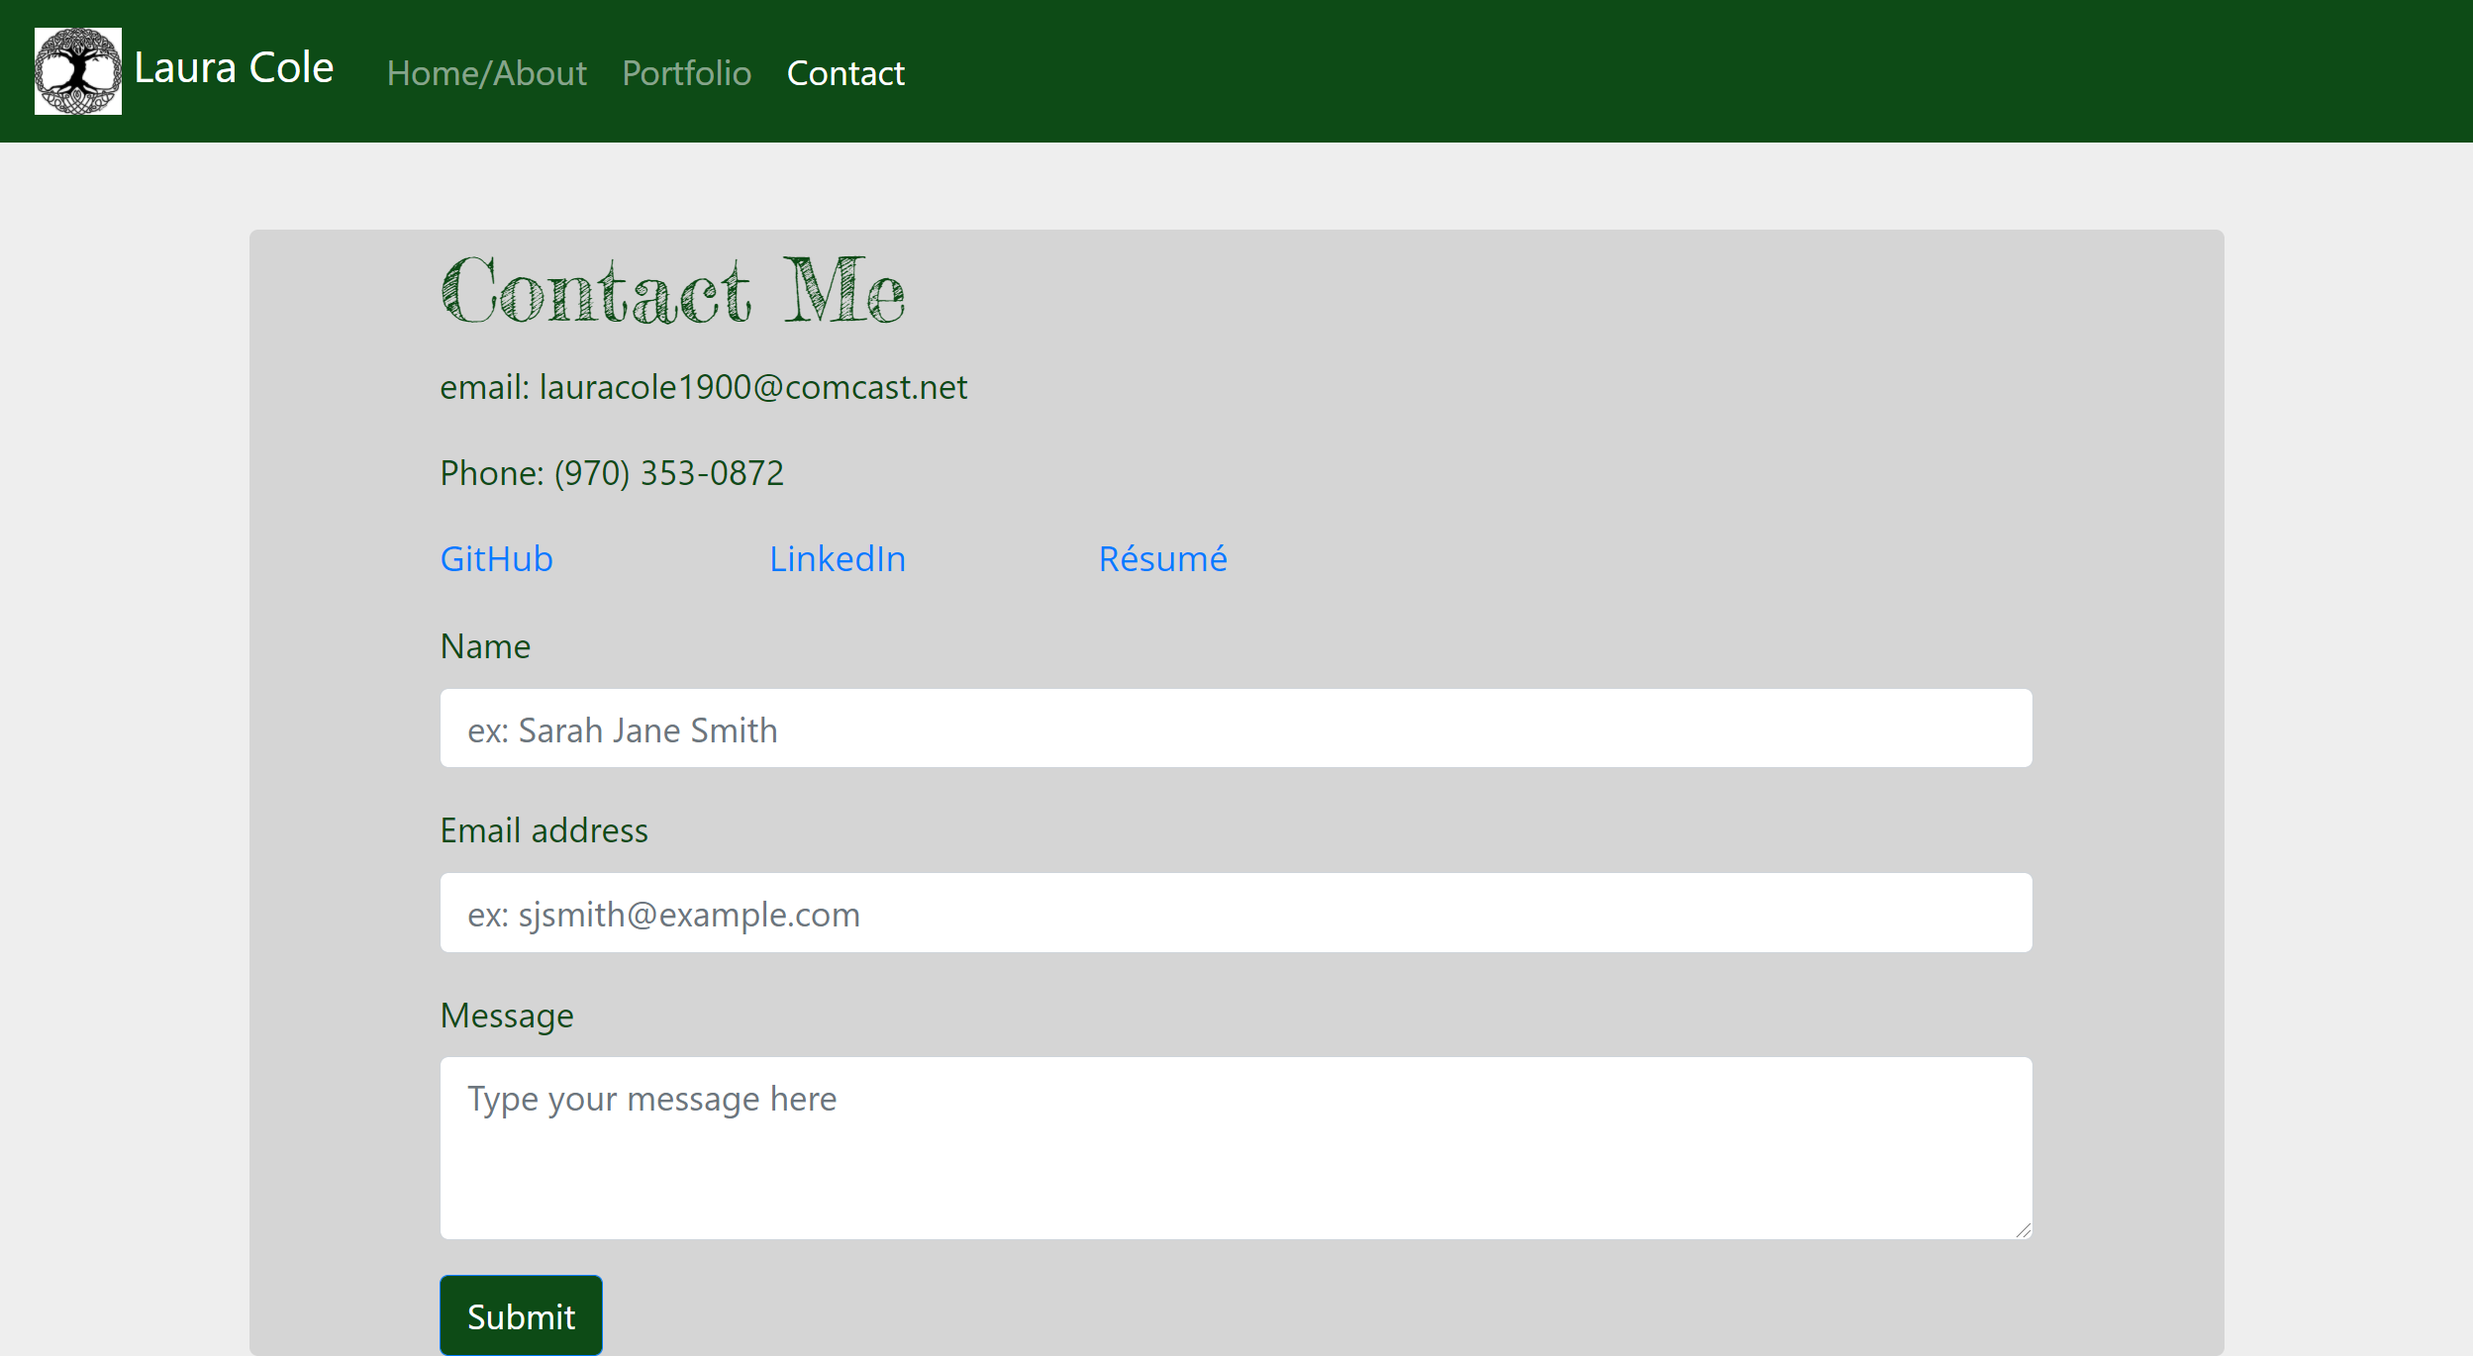
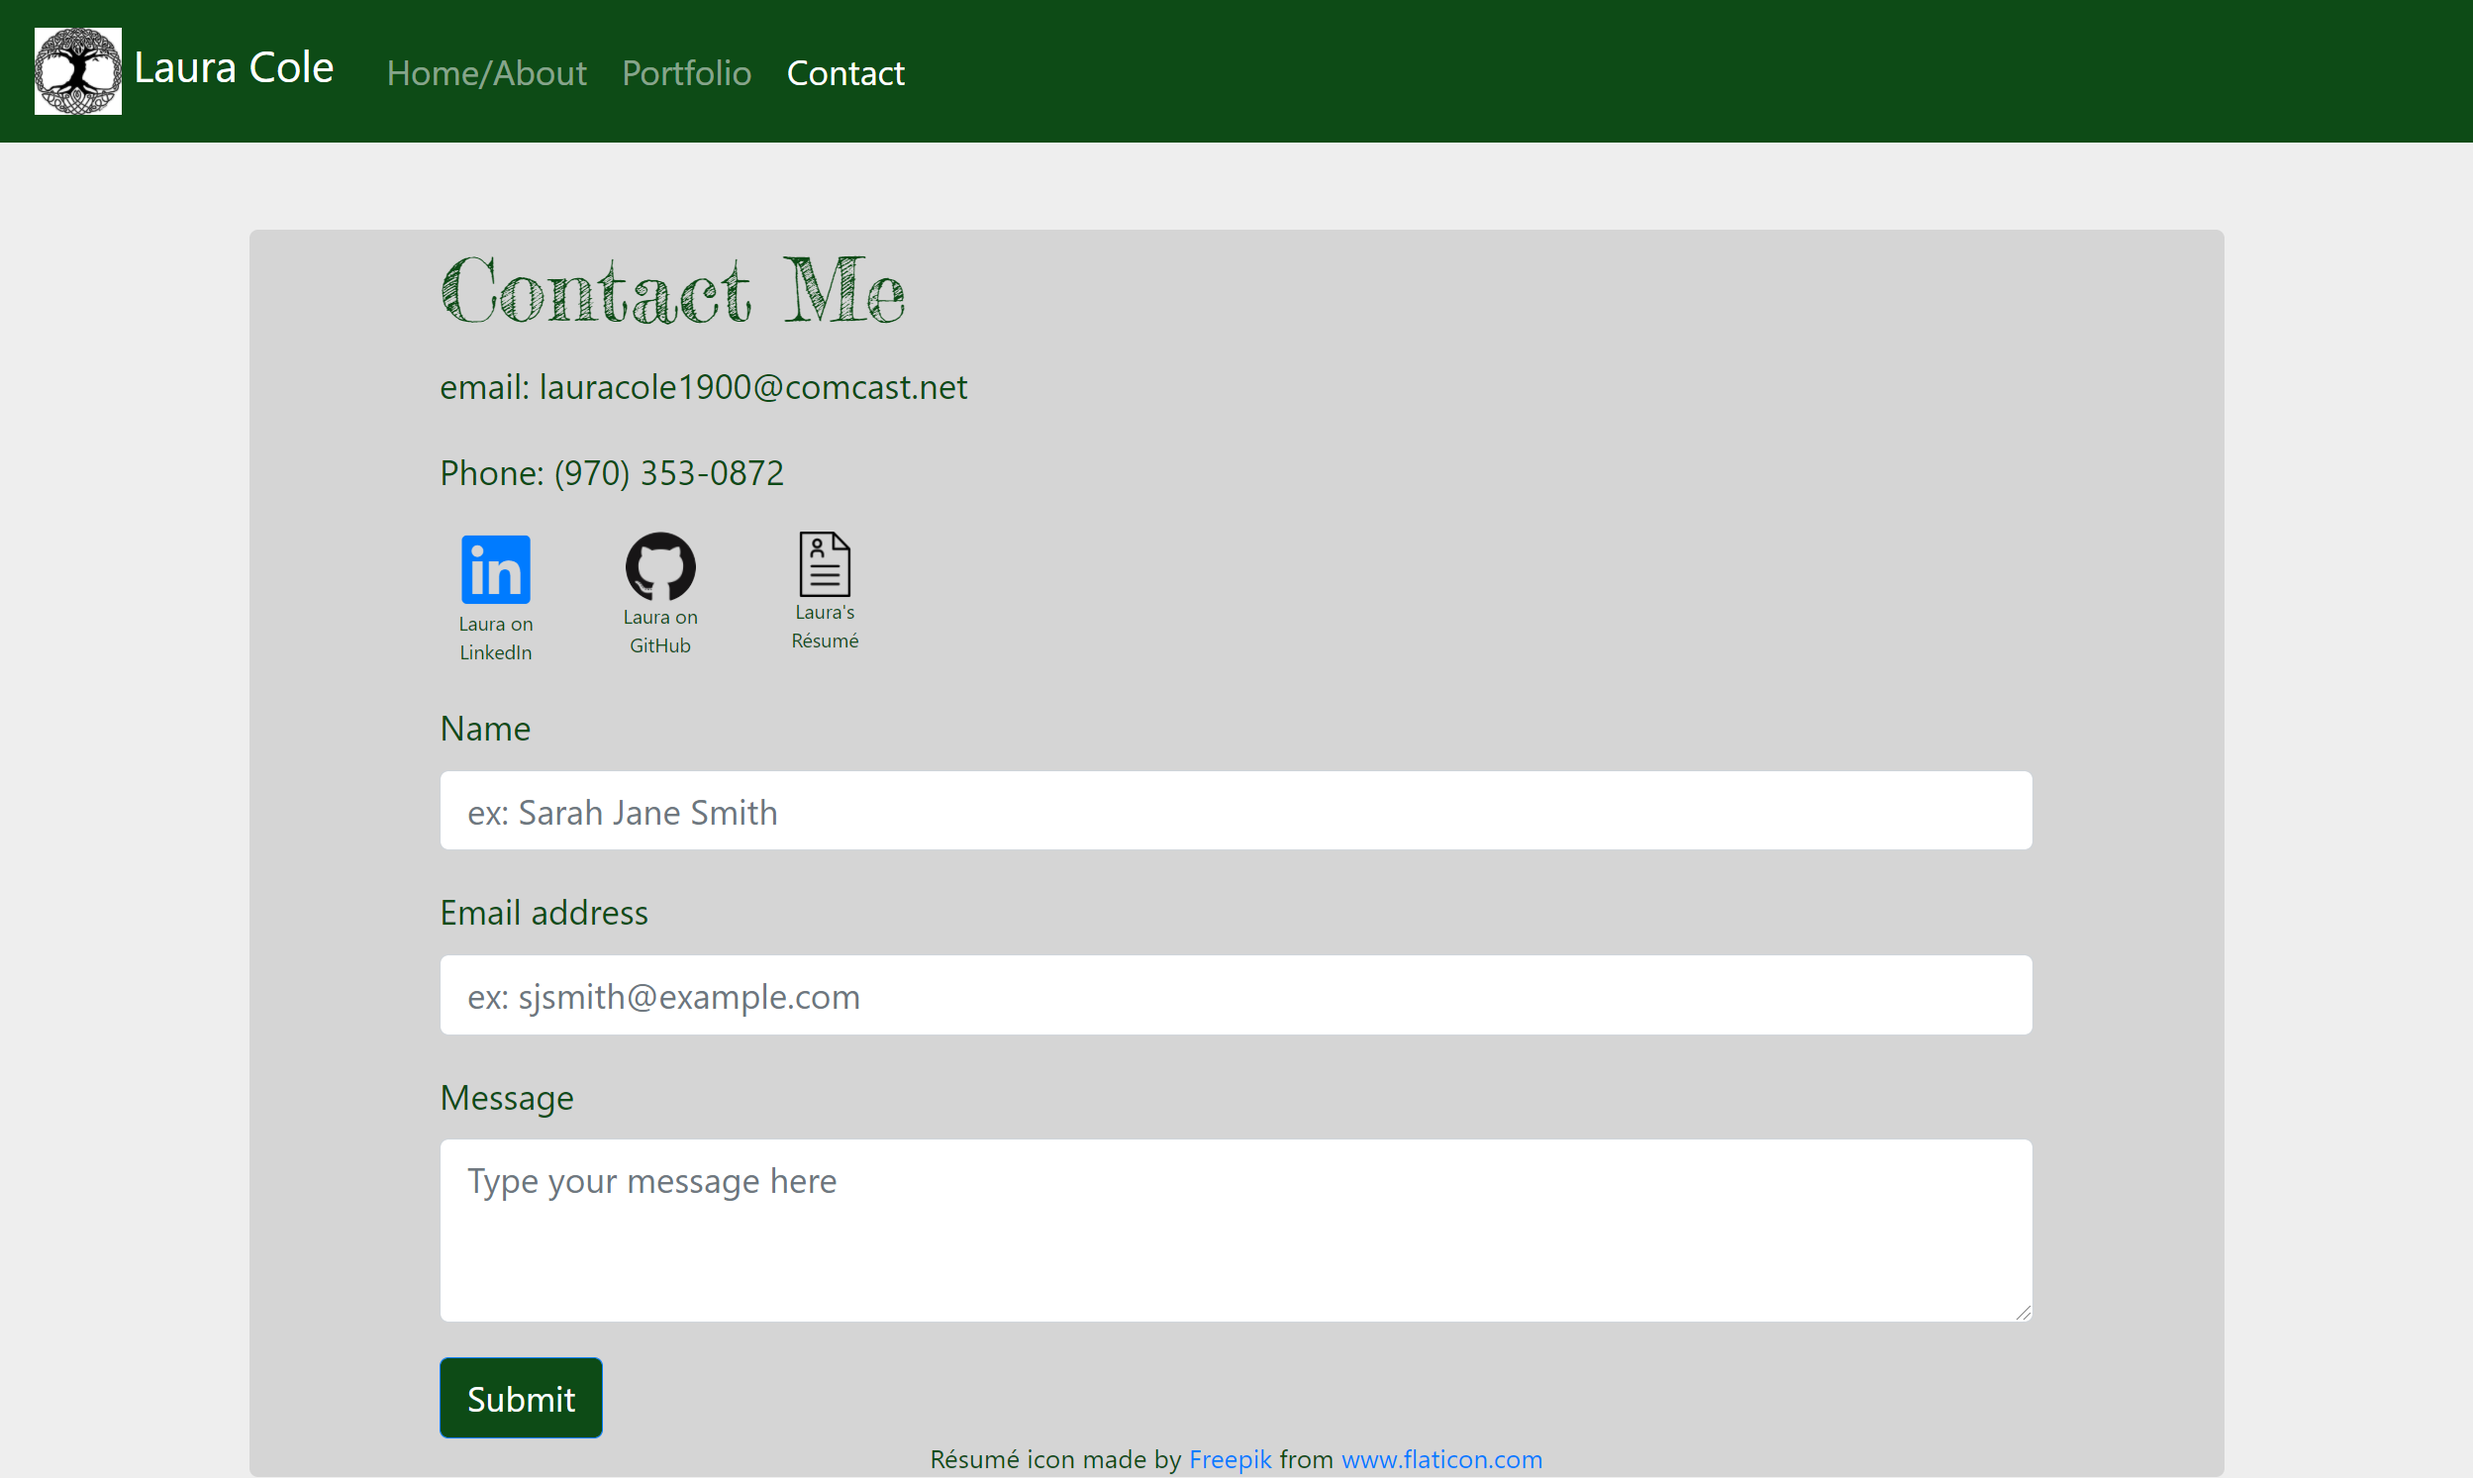
portfolio buttons

diff --git a/portfolio.html b/portfolio.html
@@ -70,16 +70,17 @@
           class="screencap img-fluid" />
       </div>
     </div>
+
     <div class="row">
       <!-- Taco Party links & description -->
       <div class="col-sm-4">
         <!-- Link to deployed site -->
         <div class="webBtn">
-          <button id="tacoParty" class="siteBtn"><a href="https://lauracole1900.github.io/tacoParty/" class="portLinks">Taco Party</a></button>
+          <a href="https://lauracole1900.github.io/tacoParty/" class="btn siteBtn portLinks" role="button" target="_blank">Taco Party</a>
         </div>
         <!-- Link to repo -->
         <div class="webBtn">
-          <button id="tacoPartyRepo" class="siteBtn"><a href="https://github.com/LauraCole1900/tacoParty" class="portLinks">Taco Party GitHub repo</a></button>
+          <a href="https://github.com/LauraCole1900/tacoParty" class="btn siteBtn portLinks" role="button" target="_blank">Taco Party GitHub repo</a>
         </div>
         <!-- Description -->
         <p class="desc">Taco Party was built through the collaborative efforts of six students, including me. It uses the Materialize framework for layout and mobile-responsiveness, JavaScript/jQuery, and two third-party APIs to provide a resource for users to plan their taco party. Users can generate random taco- or salsa-based recipes, visit the "Taco" and "Salsa" pages to view all available recipes, and visit the "Beverages" pages to browse recipes for adult mixed drinks.</p>
@@ -88,11 +89,11 @@
       <div class="col-sm-4">
         <!-- Link to deployed site -->
         <div class="webBtn">
-          <button id="planner" class="siteBtn"><a href="https://lauracole1900.github.io/jQueryWorkdayScheduler/" class="portLinks">Workday Scheduler</a></button>
+          <a href="https://lauracole1900.github.io/jQueryWorkdayScheduler/" class="btn siteBtn portLinks" role="button" target="_blank">Workday Scheduler</a>
         </div>
         <!-- Link to repo -->
         <div class="webBtn">
-          <button id="plannerRepo" class="siteBtn" href="https://github.com/LauraCole1900/jQueryWorkdayScheduler"><a href="https://github.com/LauraCole1900/jQueryWorkdayScheduler" class="portLinks">Workday Scheduler GitHub repo</a></button>
+          <a href="https://github.com/LauraCole1900/jQueryWorkdayScheduler" class="btn siteBtn portLinks" role="button" target="_blank">Workday Scheduler GitHub repo</a>
         </div>
         <!-- Description -->
         <p class="desc">The Workday Scheduler uses JavaScript to dynamically create and populate a single-day workday planner. When the user clicks on a time-block, they are then presented with an input field into which they can type their event. The information is then stored in local storage, so the information can be repopulated to the page on reload.The date is provided by the Day.js library.</p>
@@ -101,11 +102,11 @@
       <div class="col-sm-4">
         <!-- Link to deployed site -->
         <div class="webBtn">
-          <button id="weather" class="siteBtn"><a href="https://lauracole1900.github.io/apiWeatherDashboard/" class="portLinks">Weather Dashboard</a></button>
+          <a href="https://lauracole1900.github.io/apiWeatherDashboard/" class="btn siteBtn portLinks" role="button" target="_blank">Weather Dashboard</a>
         </div>
         <!-- Link to repo -->
         <div class="webBtn">
-          <button id="weatherRepo" class="siteBtn"><a href="https://github.com/LauraCole1900/apiWeatherDashboard" class="portLinks">Weather Dashboard GitHub repo</a></button>
+          <a href="https://github.com/LauraCole1900/apiWeatherDashboard" class="btn siteBtn portLinks" role="button" target="_blank">Weather Dashboard GitHub repo</a>
         </div>
         <!-- Description -->
         <p class="desc">The Weather Dashboard uses jQuery and the OpenWeather API to provide weather information. The user types the city about which they're wanting weather information into the "search" function, and the dashboard then provides current weather conditions and a five-day forecast for that city. While subsequent searches will replace the five-day forecast, the current conditions will still be visible at the bottom of the page, and all searched cities appear in the "history" section for ease of repeating searches.</p>

diff --git a/contact.html b/contact.html
@@ -62,19 +62,17 @@
       <div class="col-sm-1"></div>
       <!-- LinkedIn  -->
       <div class="col-sm-1 git">
-        <a href="https://www.linkedin.com/in/laura-cole-3661b01b9/?trk=profile-badge"><i class="fab fa-linkedin fa-3x"></i></a>
+        <a href="https://www.linkedin.com/in/laura-cole-3661b01b9/?trk=profile-badge" target="_blank"><i class="fab fa-linkedin fa-3x"></i></a>
         <p class="git">Laura on LinkedIn</p>
       </div>
       <!-- GitHub -->
       <div class="col-sm-1 git">
-        <a href="https://github.com/LauraCole1900"><img src="assets/images/GitHub-Mark-120px-plus.png" alt="GitHub logo"
-            class="github" /></a>
+        <a href="https://github.com/LauraCole1900" target="_blank"><img src="assets/images/GitHub-Mark-120px-plus.png" alt="GitHub logo" class="github" /></a>
         <p class="git">Laura on GitHub</p>
       </div>
       <!-- Résumé -->
       <div class="col-sm-1 git">
-        <a href="https://drive.google.com/file/d/1gOy3CkufWH_k_Y9dVFQYfZc955bPCT25/view?usp=sharing"><img
-            src="assets/images/resume-document-icon.png" alt="Résumé icon" class="resume"></a>
+        <a href="https://drive.google.com/file/d/1gOy3CkufWH_k_Y9dVFQYfZc955bPCT25/view?usp=sharing" target="_blank"><img src="assets/images/resume-document-icon.png" alt="Résumé icon" class="resume"></a>
         <p class="git">Laura's Résumé</p>
       </div>
     </div>
